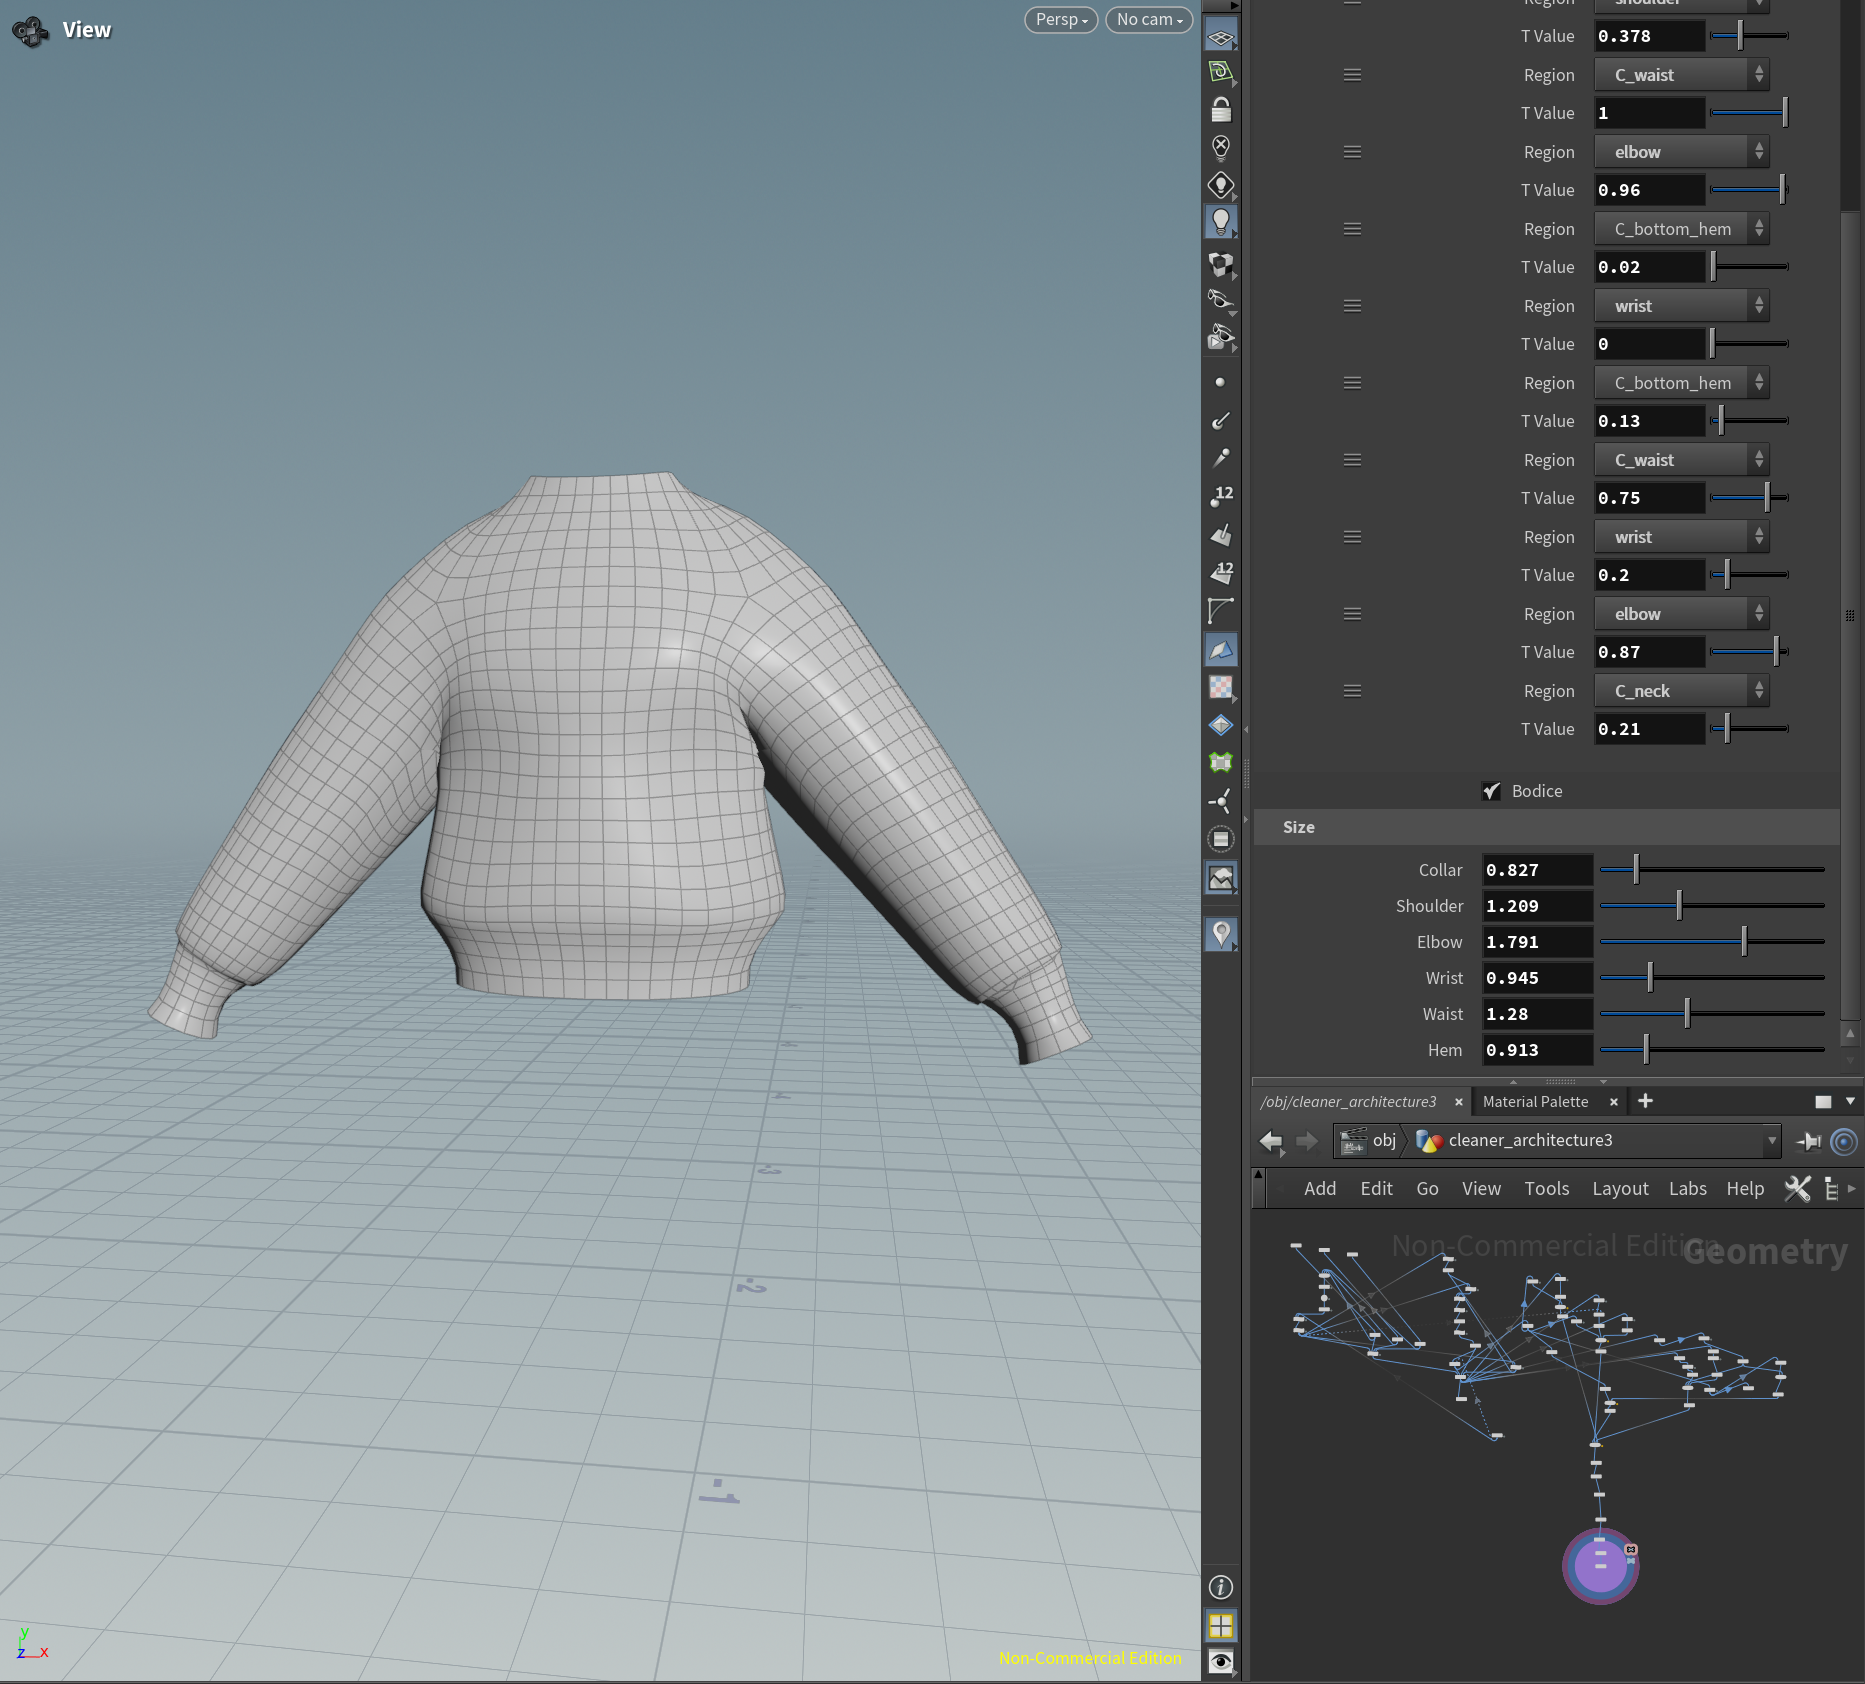
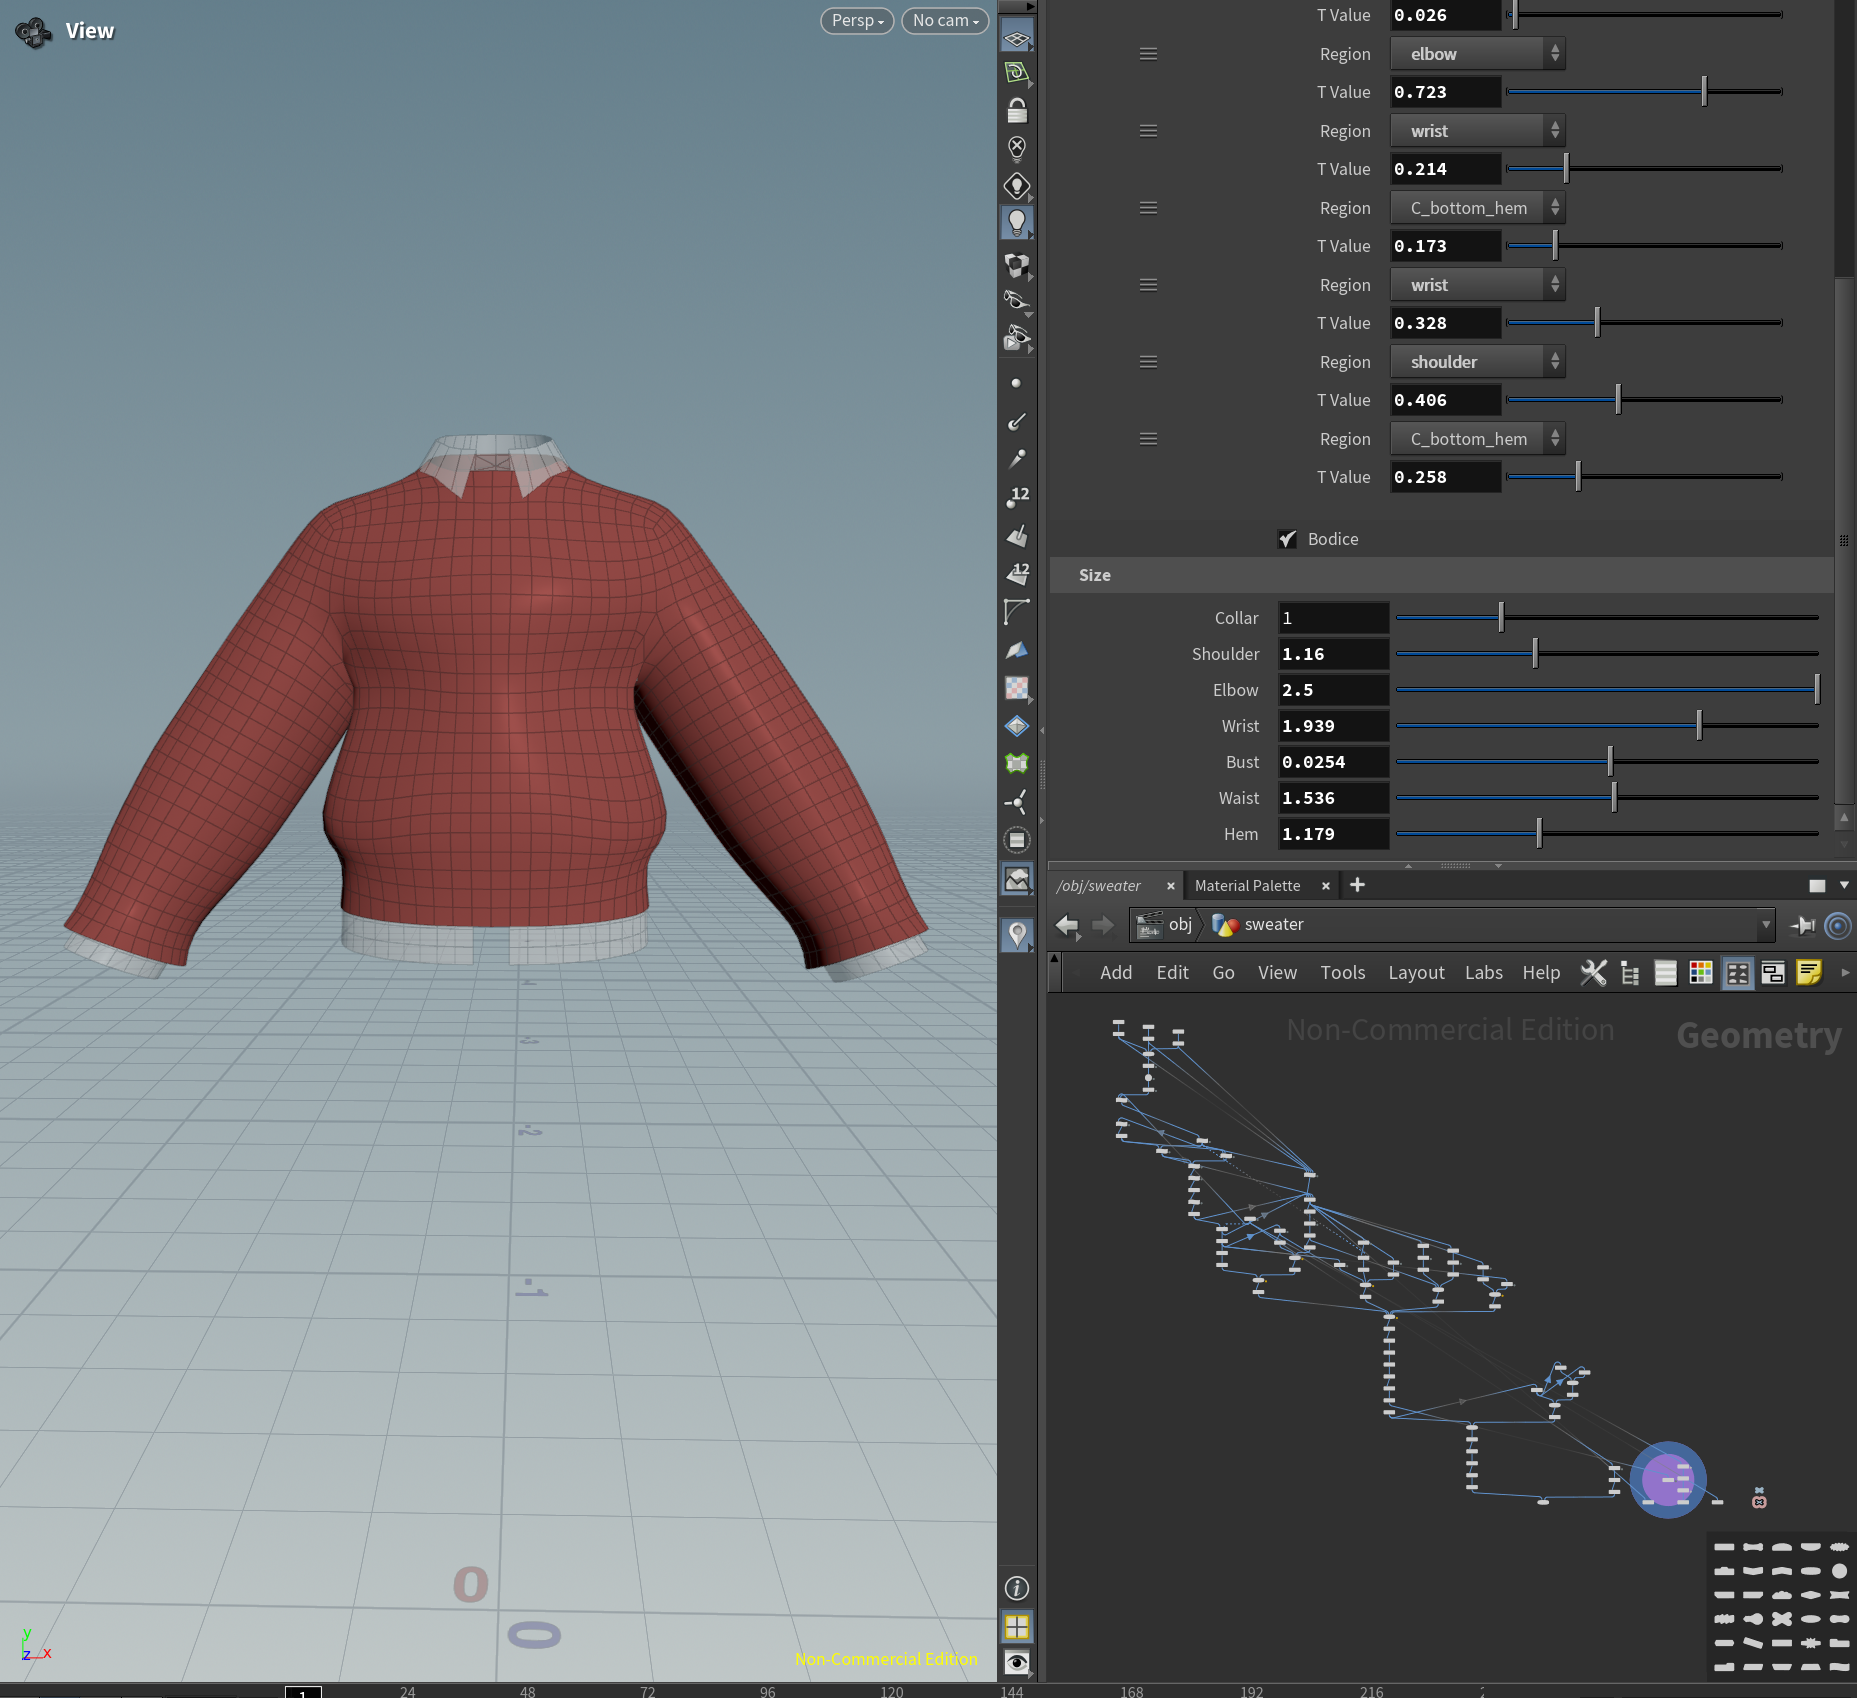
Replace garment screenshot; add scrolling=no to all demo iframes to prevent auto-scroll

diff --git a/src/routes/+page.svelte b/src/routes/+page.svelte
@@ -105,7 +105,7 @@
 
     <div class="mb-4">
       <div class="rounded-xl overflow-hidden" style="box-shadow: 0 16px 48px rgba(0,0,0,0.35);">
-        <iframe srcdoc={garmentHtml} class="w-full block" style="height: 480px;" title="garment_gen demo"></iframe>
+        <iframe srcdoc={garmentHtml} class="w-full block" style="height: 480px;" title="garment_gen demo" scrolling="no"></iframe>
       </div>
     </div>
 
@@ -180,7 +180,7 @@
     </div>
     {#if activeSession === 'metabolic_tracker'}
       <div class="rounded-xl overflow-hidden" style="box-shadow: 0 16px 48px rgba(0,0,0,0.35);">
-        <iframe srcdoc={eigengrasRevealHtml} class="w-full block" style="height: 600px;" title="metabolic tracker"></iframe>
+        <iframe srcdoc={eigengrasRevealHtml} class="w-full block" style="height: 600px;" title="metabolic tracker" scrolling="no"></iframe>
       </div>
     {:else}
       <div class="rounded-xl overflow-hidden" style="box-shadow: 0 16px 48px rgba(0,0,0,0.35);">
@@ -190,6 +190,7 @@
           class="w-full block"
           style="height: 600px;"
           title="eigengrasp session replay"
+          scrolling="no"
         ></iframe>
       </div>
     {/if}
